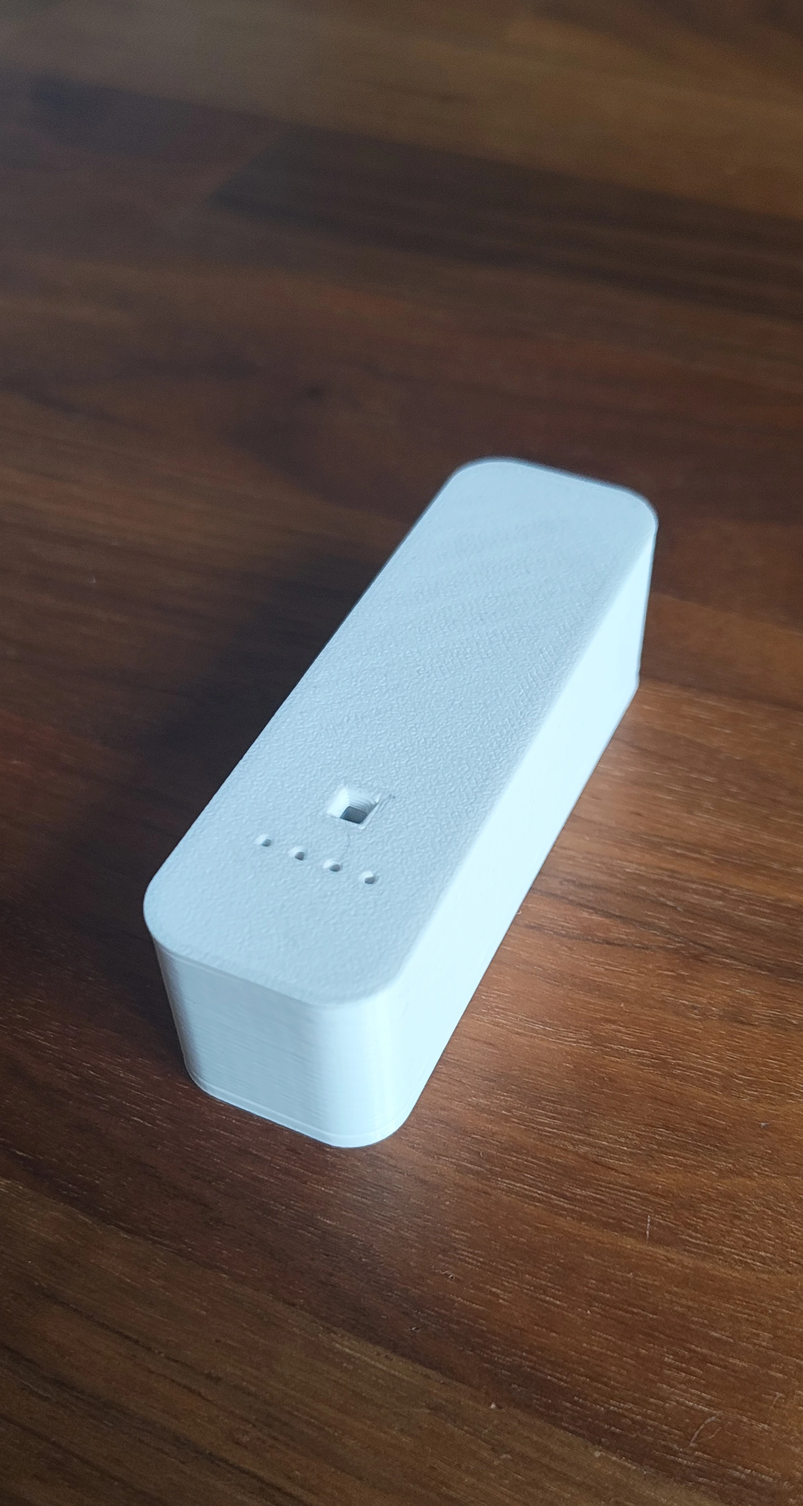
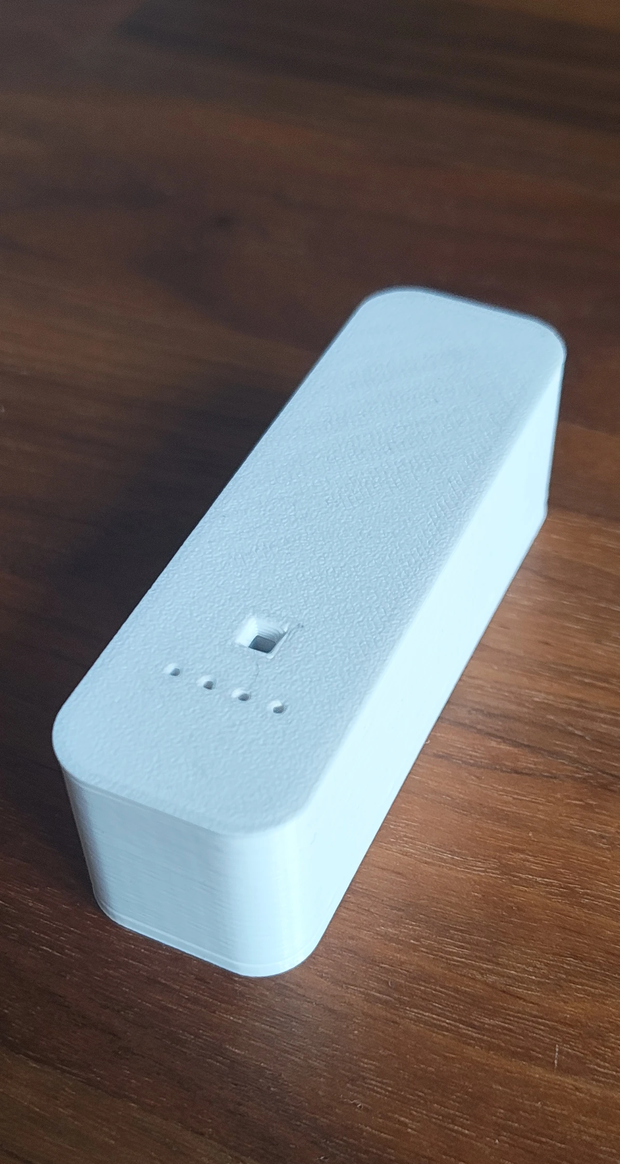
Update images

diff --git a/README.md b/README.md
@@ -5,9 +5,9 @@
 The PCB is designed to operate with a rechargeable LiFePo4 AA battery. This repository includes the PCB design, a 3D-printable case, and basic firmware.
 
 <div style="display: flex;">
-   <img src="docs/_assets/case_side.webp" alt="Case Side" width="360px">
-   <img src="docs/_assets/pcb_front_transparent.webp" alt="PCB Front" width="360px">
-   <img src="docs/_assets/pcb_back_transparent.webp" alt="PCB Back" width="360px">
+   <img src="docs/_assets/case_side.webp" alt="Case Side" height="512px" width="273px">
+   <img src="docs/_assets/pcb_front_transparent.webp" alt="PCB Front" height="512px">
+   <img src="docs/_assets/pcb_back_transparent.webp" alt="PCB Back" height="512px">
 </div>
 
 ---
